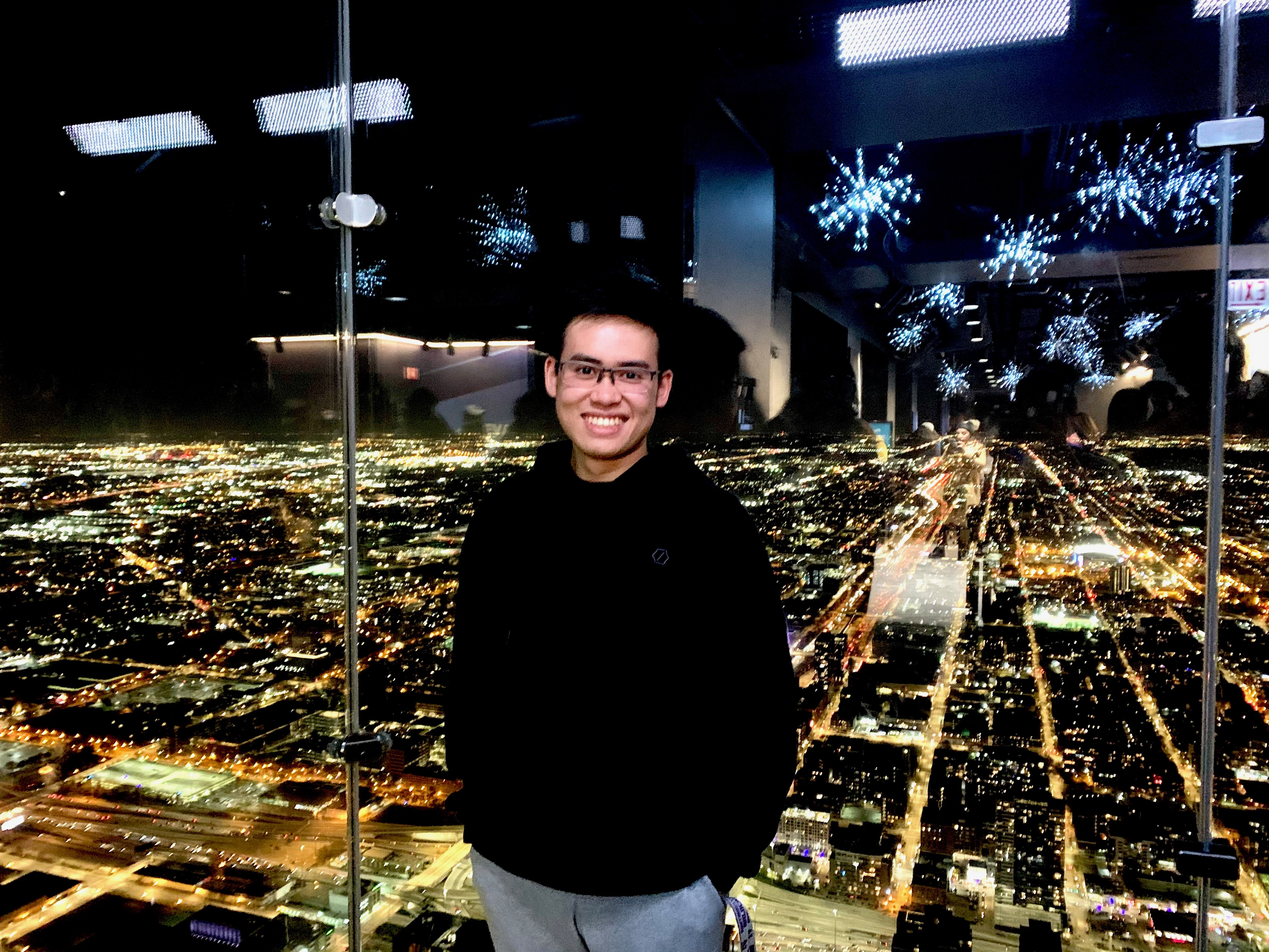
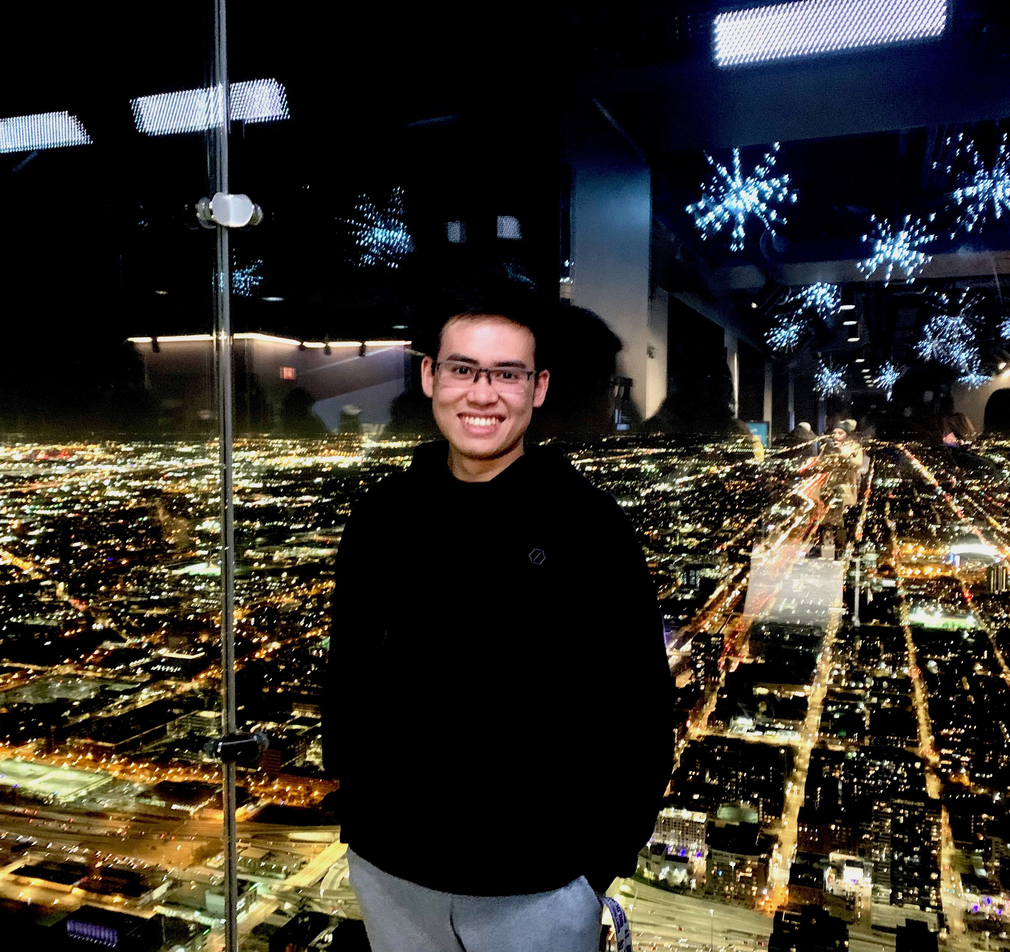
use plain image instead of background image solution for cover image

diff --git a/src/App.tsx b/src/App.tsx
@@ -82,35 +82,37 @@ const App = () => {
         <div className="App">
             {/* Wrapper */}
             <div id="container">
-                {/* Navigation */}
-                <div id="nav">
-                    <NavBar routes={routes} />
-                </div>
-                {/* Main Content */}
-                <div id="main">
-                    <Switch>{getRoutes(routes)}</Switch>
-                    {pageIndex! > 0 && (
-                        <div
-                            id="left"
-                            className="arrow"
-                            onClick={() => prevPage()}
-                        >
-                            <FontAwesomeIcon icon={faChevronLeft} />
-                        </div>
-                    )}
-                    {pageIndex < navRoutes.length - 1 && (
-                        <div
-                            id="right"
-                            className="arrow"
-                            onClick={() => nextPage()}
-                        >
-                            <FontAwesomeIcon icon={faChevronRight} />
-                        </div>
-                    )}
-                </div>
-                {/* Footer */}
-                <div id="footer">
-                    <Footer />
+                <div className="wrapper">
+                    {/* Navigation */}
+                    <div id="nav">
+                        <NavBar routes={routes} />
+                    </div>
+                    {/* Main Content */}
+                    <div id="main">
+                        <Switch>{getRoutes(routes)}</Switch>
+                        {pageIndex! > 0 && (
+                            <div
+                                id="left"
+                                className="arrow"
+                                onClick={() => prevPage()}
+                            >
+                                <FontAwesomeIcon icon={faChevronLeft} />
+                            </div>
+                        )}
+                        {pageIndex < navRoutes.length - 1 && (
+                            <div
+                                id="right"
+                                className="arrow"
+                                onClick={() => nextPage()}
+                            >
+                                <FontAwesomeIcon icon={faChevronRight} />
+                            </div>
+                        )}
+                    </div>
+                    {/* Footer */}
+                    <div id="footer">
+                        <Footer />
+                    </div>
                 </div>
             </div>
             {/* Background */}

diff --git a/src/App.scss b/src/App.scss
@@ -4,14 +4,21 @@
 
     #container {
         position: relative;
+        display: flex;
+        flex-direction: column;
+        justify-content: flex-start;
+        align-items: center;
         z-index: 1 !important;
-        // border: 1px solid #ffffff;
         width: 70%;
         max-width: 1100px;
         margin: auto;
         margin-top: 220px;
         margin-bottom: 220px;
         transition: opacity 1s ease-in-out;
+
+        .wrapper {
+            position: relative;
+        }
 
         #nav {
             // border: 1px solid red;
@@ -25,7 +32,7 @@
             position: relative;
             display: flex;
             width: 100%;
-            min-height: 100%;
+            min-height: fit-content;
             background: white;
             z-index: 2;
             // margin-top: 28px;
@@ -82,7 +89,7 @@
                     }
                 }
 
-                @media screen and (min-width: 768px) {
+                @media screen and (min-width: 992px) {
                     display: none;
                 }
             }
@@ -95,9 +102,10 @@
             width: 100%;
         }
 
-        @media screen and (max-width: 768px) {
-            margin-top: 15%;
-            margin-bottom: 15%;
+        @media screen and (max-width: 992px) {
+            justify-content: center;
+            width: 70%;
+            margin: auto;
 
             #nav {
                 display: none;

diff --git a/src/pages/home/home.tsx b/src/pages/home/home.tsx
@@ -8,7 +8,7 @@ const Home = () => {
         <div className="panel home">
             <div className="container">
                 <div className="row">
-                    <div id="intro" className="col-12 col-md-7">
+                    <div id="intro" className="col-12 col-lg-6">
                         <h1
                             style={{
                                 color: "rgb(28, 30, 48)",
@@ -19,13 +19,14 @@ const Home = () => {
                         <p>&lt;Software Engineer /&gt;</p>
                         <p>&#9917;&#127934;&#128200;&#128075;</p>
                     </div>
-                    <div id="cover" className="col-12 col-md-5">
-                        <div
+                    <div id="cover" className="col-12 col-lg-6">
+                        {/* <div
                             className="image"
                             style={{
                                 backgroundImage: `url(${CoverImage})`,
                             }}
-                        />
+                        /> */}
+                        <img src={CoverImage} />
                     </div>
                 </div>
             </div>

diff --git a/src/pages/home/home.scss b/src/pages/home/home.scss
@@ -9,7 +9,7 @@
     }
 
     .row {
-        @media screen and (max-width: 768px) {
+        @media screen and (max-width: 992px) {
             flex-direction: column-reverse;
         }
     }
@@ -20,7 +20,7 @@
         justify-content: center;
         padding: 3.5em 2.5em;
 
-        @media screen and (max-width: 768px) {
+        @media screen and (max-width: 992px) {
             align-items: center;
             padding: 2em 1em;
         }
@@ -63,6 +63,12 @@
             width: 100%;
             box-shadow: 0rem 0.5rem 1.625rem -0.25rem rgb(20 20 20 / 15%),
                 0rem 0.5rem 0.5625rem -0.3125rem rgb(20 20 20 / 6%);
+        }
+
+        img {
+            max-width: 100%;
+            height: 100%;
+            object-fit: cover;
         }
     }
 }

diff --git a/public/index.html b/public/index.html
@@ -23,7 +23,6 @@
     <body>
         <noscript>You need to enable JavaScript to run this app.</noscript>
         <div id="root"></div>
-        <img src="media/images/skydeck.jpeg" style="display: none" />
         <!--
       This HTML file is a template.
       If you open it directly in the browser, you will see an empty page.
